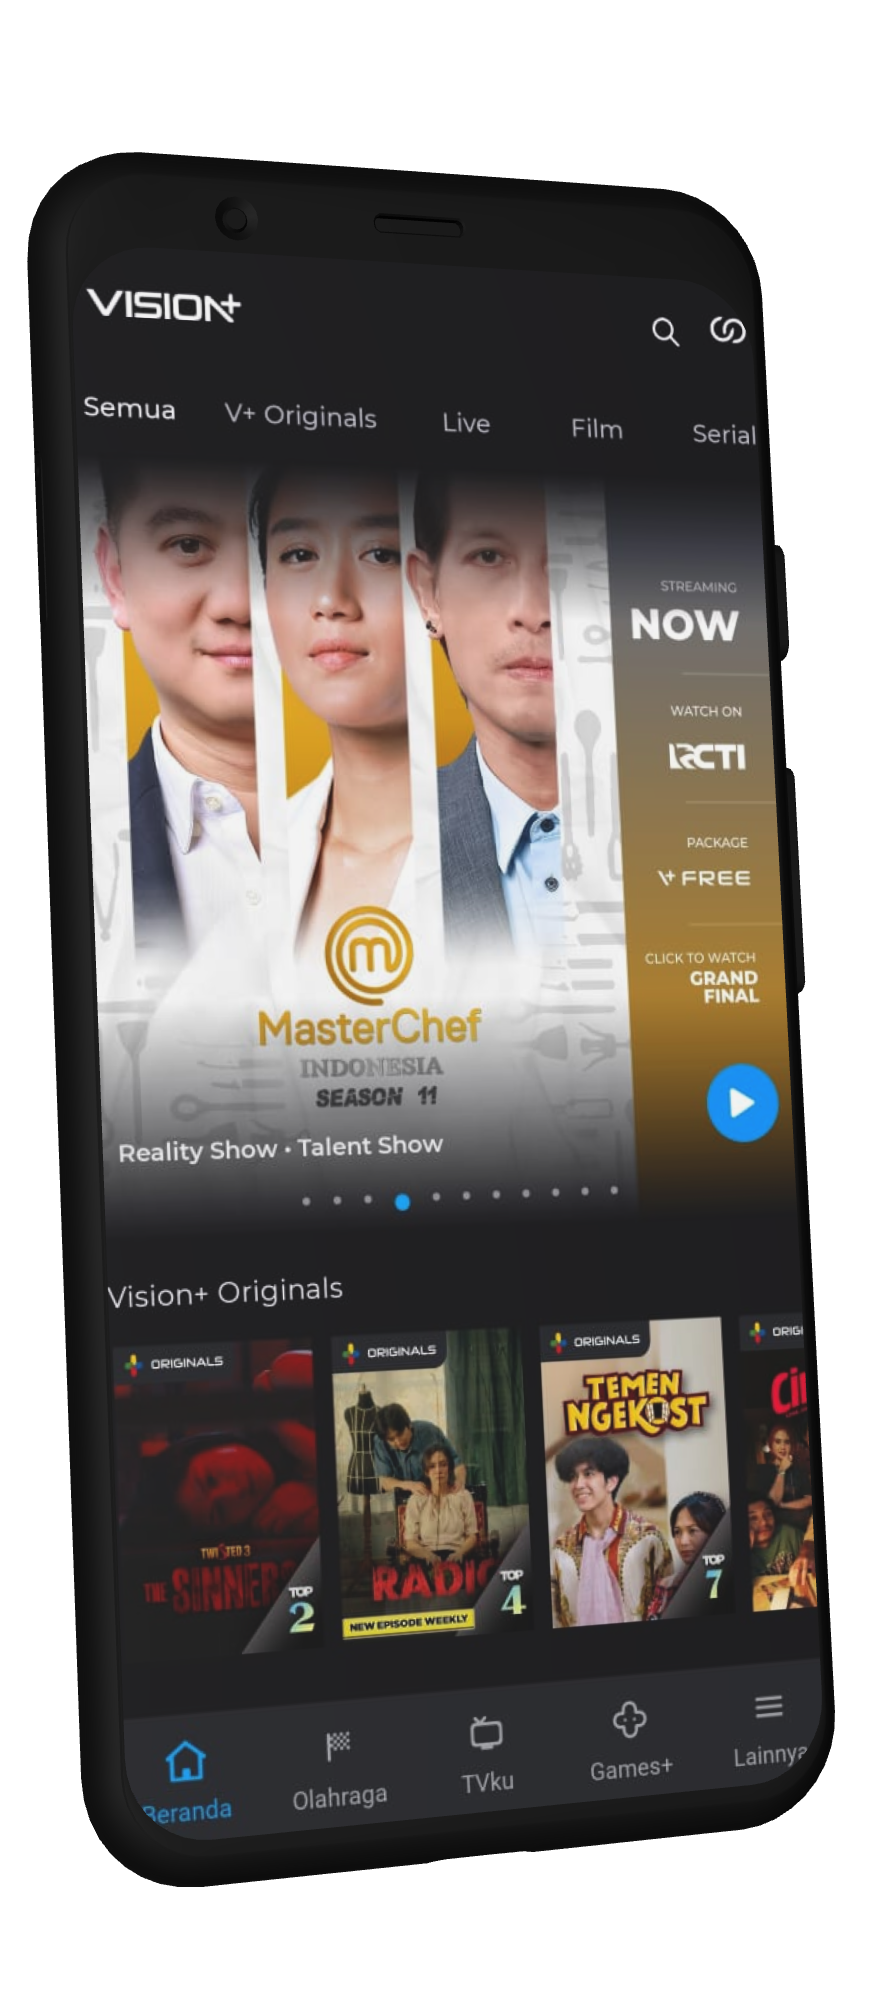
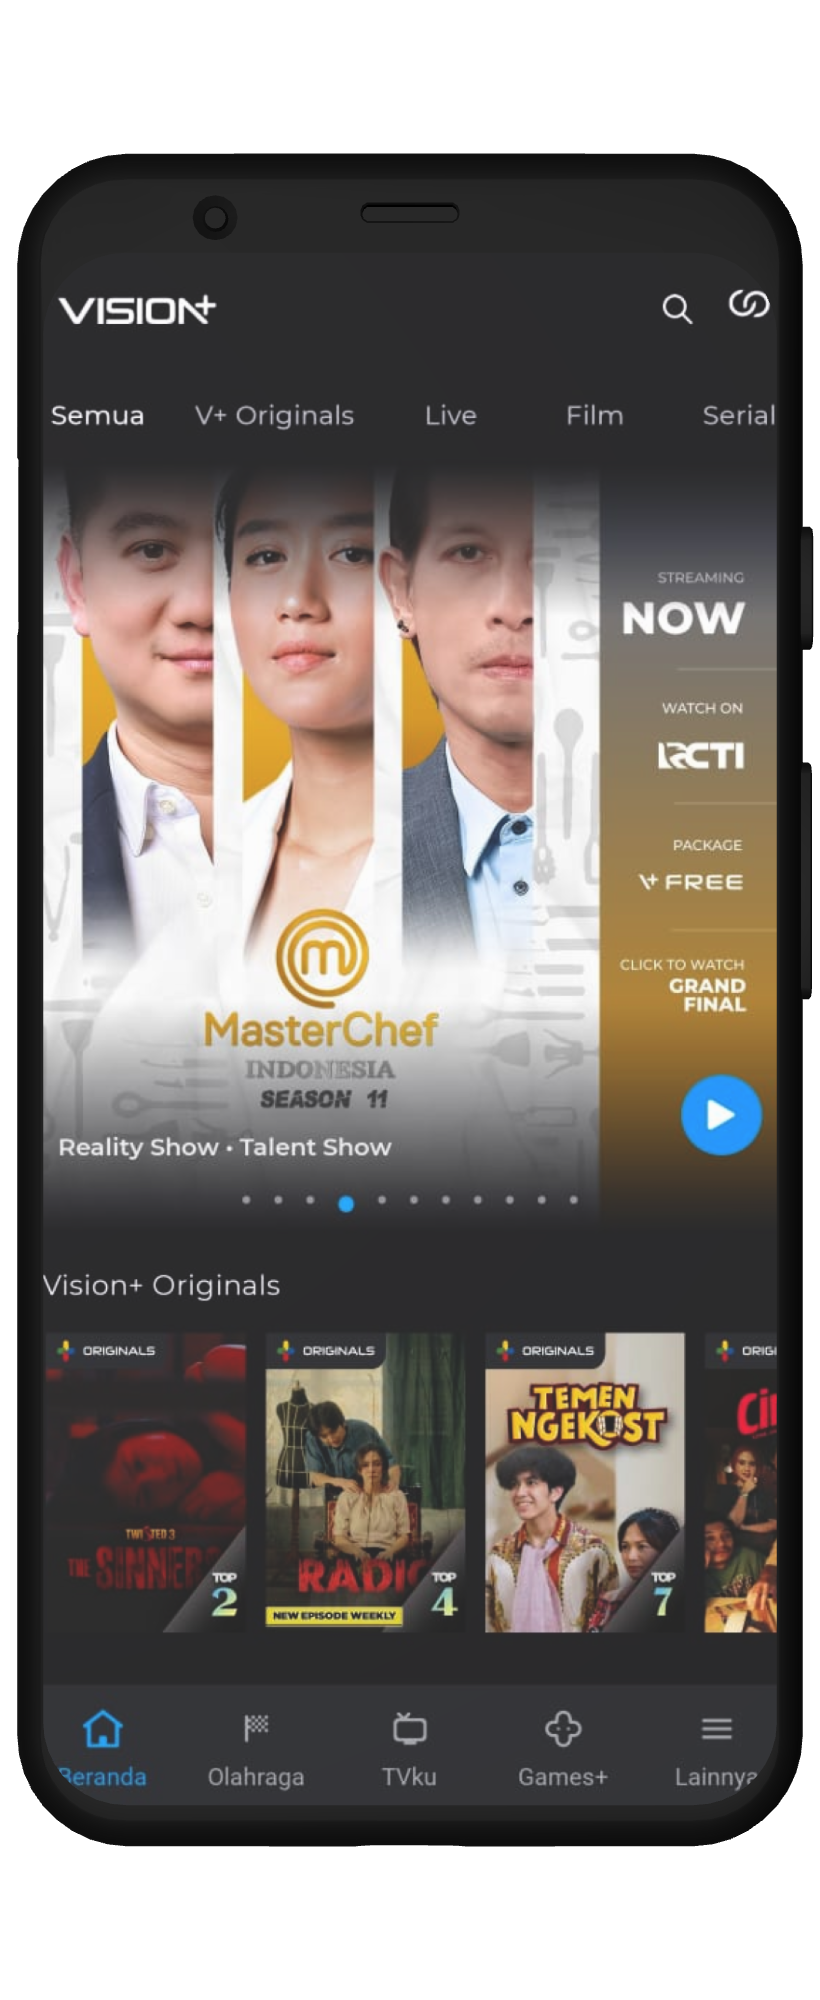
add portfolio assets

diff --git a/lib/components/portfolio/portfolio.dart b/lib/components/portfolio/portfolio.dart
@@ -1,6 +1,52 @@
 import 'package:ekyrizky_portfolio/components/portfolio/portfolio_desc.dart';
+import 'package:ekyrizky_portfolio/models/portfolio_model.dart';
 import 'package:ekyrizky_portfolio/utils/screen_helper.dart';
 import 'package:flutter/material.dart';
+
+List<PortfolioModel> portfolioItems = [
+  PortfolioModel(
+      title: "Vision+",
+      category: "Android App",
+      description:
+          "Lorem Ipsum is simply dummy text of the printing and typesetting industry. Lorem Ipsum has been the industry's standard dummy text ever since the 1500s, when an unknown printer took a galley of type and scrambled it to make a type specimen book",
+      image: 'assets/portfolio_vision.png'),
+  PortfolioModel(
+      title: "Detikcom",
+      category: "Android App",
+      description:
+          "Lorem Ipsum is simply dummy text of the printing and typesetting industry. Lorem Ipsum has been the industry's standard dummy text ever since the 1500s, when an unknown printer took a galley of type and scrambled it to make a type specimen book",
+      image: 'assets/portfolio_detikcom.png'),
+  PortfolioModel(
+      title: "CNN Indonesia",
+      category: "Android App",
+      description:
+          "Lorem Ipsum is simply dummy text of the printing and typesetting industry. Lorem Ipsum has been the industry's standard dummy text ever since the 1500s, when an unknown printer took a galley of type and scrambled it to make a type specimen book",
+      image: 'assets/portfolio_cnn.png'),
+  PortfolioModel(
+      title: "CNBC Indonesia",
+      category: "Android App",
+      description:
+          "Lorem Ipsum is simply dummy text of the printing and typesetting industry. Lorem Ipsum has been the industry's standard dummy text ever since the 1500s, when an unknown printer took a galley of type and scrambled it to make a type specimen book",
+      image: 'assets/portfolio_cnbc.png'),
+  PortfolioModel(
+      title: "Haibunda",
+      category: "Android App",
+      description:
+          "Lorem Ipsum is simply dummy text of the printing and typesetting industry. Lorem Ipsum has been the industry's standard dummy text ever since the 1500s, when an unknown printer took a galley of type and scrambled it to make a type specimen book",
+      image: 'assets/portfolio_haibunda.png'),
+  PortfolioModel(
+      title: "insertlive",
+      category: "Android App",
+      description:
+          "Lorem Ipsum is simply dummy text of the printing and typesetting industry. Lorem Ipsum has been the industry's standard dummy text ever since the 1500s, when an unknown printer took a galley of type and scrambled it to make a type specimen book",
+      image: 'assets/portfolio_insertlive.png'),
+  PortfolioModel(
+      title: "Stonks Calculator",
+      category: "Android App",
+      description:
+          "Lorem Ipsum is simply dummy text of the printing and typesetting industry. Lorem Ipsum has been the industry's standard dummy text ever since the 1500s, when an unknown printer took a galley of type and scrambled it to make a type specimen book",
+      image: 'assets/portfolio_stonks.png'),
+];
 
 class Portfolio extends StatelessWidget {
   const Portfolio({super.key});
